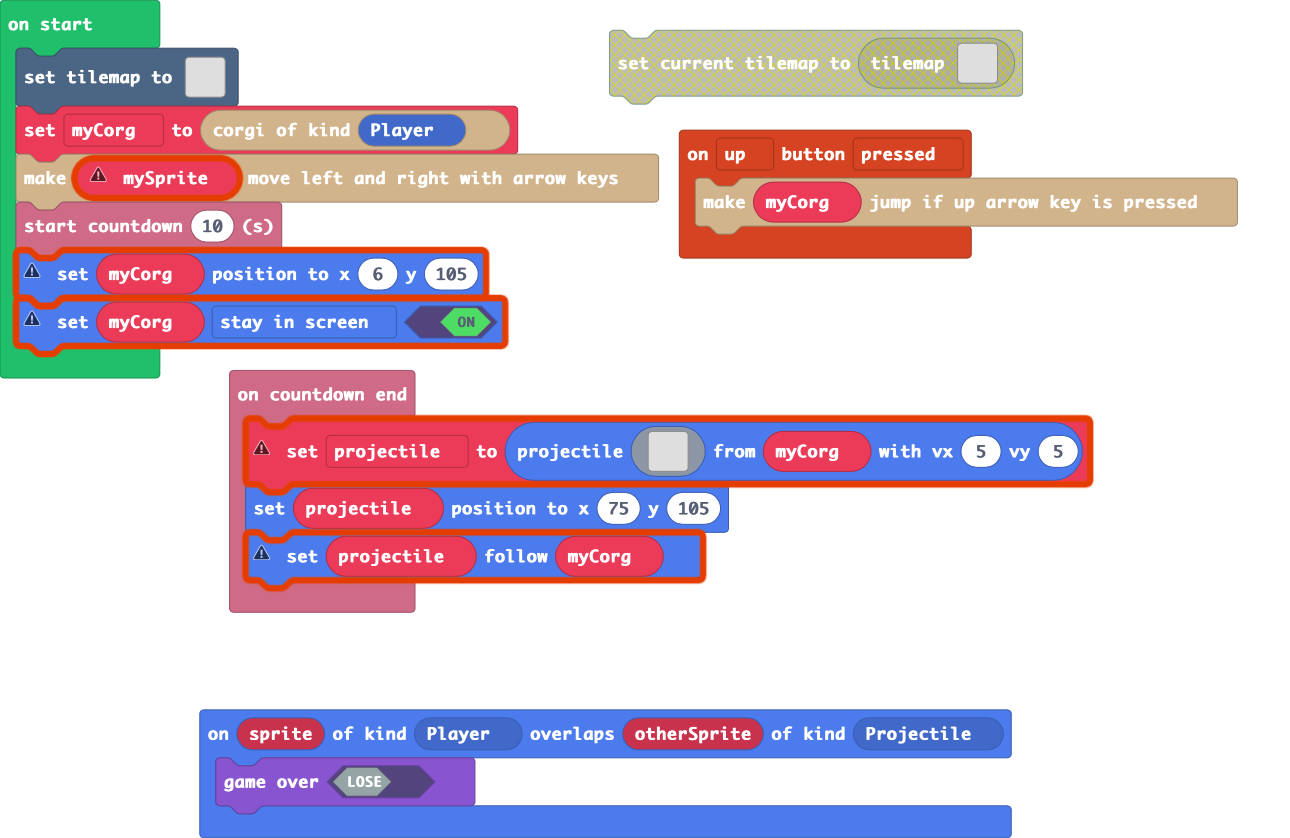
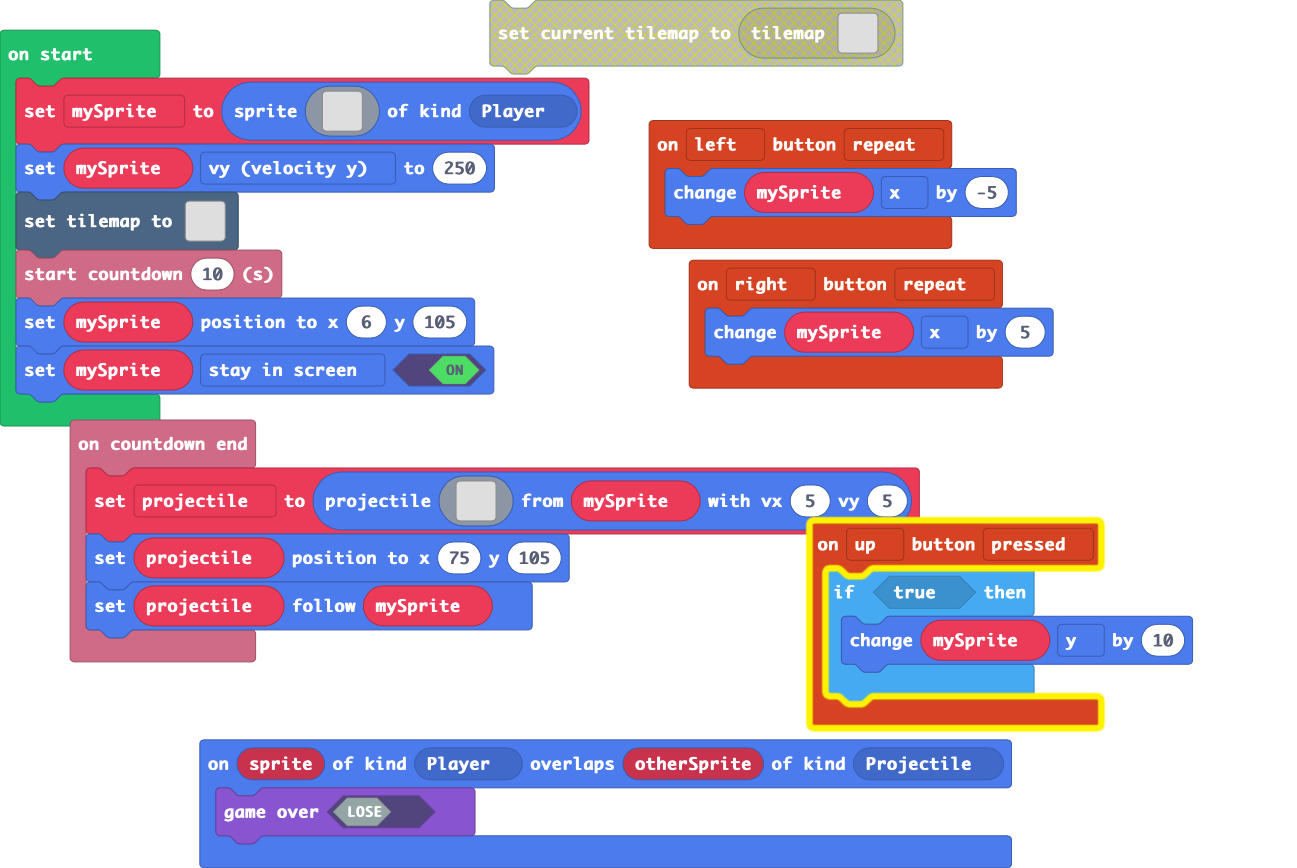
fixed problems (kind of)

diff --git a/main.ts b/main.ts
@@ -1,5 +1,10 @@
 controller.up.onEvent(ControllerButtonEvent.Pressed, function () {
-    myCorg.verticalMovement()
+    if (true) {
+        mySprite.y += 10
+    }
+})
+controller.right.onEvent(ControllerButtonEvent.Repeated, function () {
+    mySprite.x += 5
 })
 info.onCountdownEnd(function () {
     projectile = sprites.createProjectileFromSprite(img`
@@ -19,16 +24,37 @@ info.onCountdownEnd(function () {
         . . . . . f . . f . . . . . . . 
         . . . f f f . . f f f . . . . . 
         . . . . . . . . . . . . . . . . 
-        `, myCorg, 5, 5)
+        `, mySprite, 5, 5)
     projectile.setPosition(75, 105)
-    projectile.follow(myCorg)
+    projectile.follow(mySprite)
 })
 sprites.onOverlap(SpriteKind.Player, SpriteKind.Projectile, function (sprite, otherSprite) {
     game.over(false)
 })
+controller.left.onEvent(ControllerButtonEvent.Repeated, function () {
+    mySprite.x += -5
+})
 let projectile: Sprite = null
-let mySprite: Corgio = null
-let myCorg: Corgio = null
+let mySprite: Sprite = null
+mySprite = sprites.create(img`
+    . . . . . . . . . . . . . . . . 
+    . . . . . . . . . . . . . . . . 
+    . . . . . . . . . . . . . . . . 
+    . . . . . . . . . . . . . . . . 
+    . . . . 2 . . . . . . 2 . . . . 
+    . . . . . . . . . . . . . . . . 
+    . . . . . . . . . . . . . . . . 
+    . . . . . . . . . . . . . . . . 
+    . . . 2 . . . . . . . . 2 . . . 
+    . . . 2 2 . . . . . . 2 2 . . . 
+    . . . . 2 2 . . . . 2 2 . . . . 
+    . . . . . 2 2 2 2 2 2 . . . . . 
+    . . . . . . . . . . . . . . . . 
+    . . . . . . . . . . . . . . . . 
+    . . . . . . . . . . . . . . . . 
+    . . . . . . . . . . . . . . . . 
+    `, SpriteKind.Player)
+mySprite.vy = 250
[1 lines of base64/hex data omitted]
     ................................................................................................................................................................
     ................................................................................................................................................................
@@ -151,8 +177,6 @@ tiles.setTilemap(tiles.createTilemap(hex`a00078000404040404040404040404040404040
     ................................................................................................................................................................
     ................................................................................................................................................................
     `, [myTiles.transparency16,myTiles.tile4,myTiles.tile5,myTiles.tile7,myTiles.tile6,myTiles.tile8,myTiles.tile9,myTiles.tile10,sprites.builtin.forestTiles0], TileScale.Sixteen))
-myCorg = corgio.create(SpriteKind.Player)
-mySprite.horizontalMovement()
 info.startCountdown(10)
-myCorg.setPosition(6, 105)
-myCorg.setFlag(SpriteFlag.StayInScreen, true)
+mySprite.setPosition(6, 105)
+mySprite.setFlag(SpriteFlag.StayInScreen, true)
